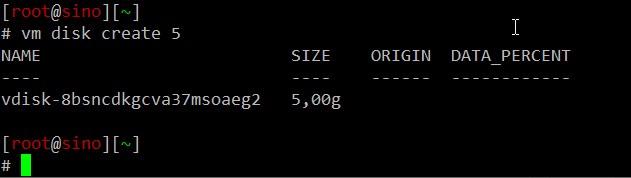
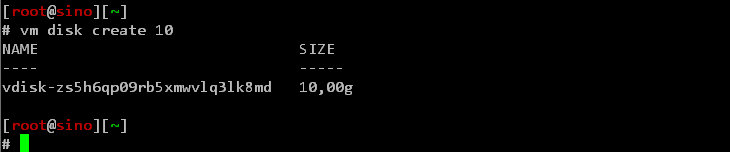
Atualização do site com novas imagens  e do sistema sino.

diff --git a/docs/sino.md b/docs/sino.md
@@ -37,9 +37,9 @@ Quanto as VMs, todos os dados devem ser armazenados em volumes nos discos locais
 Segue o link para downloads das *ISOs* e seus respectivos *checksum*. Todos os arquivos estão em uma única pasta:
 
 Arquivos: [pasta](https://www.dropbox.com/sh/9hip5a385kqctar/AAAi8raYbK24QyQPASG47vtta?dl=0){:target="_blank"}   
-Última versão: sino-20210930.iso  
+Última versão: sino-20211029.iso  
 Changelog: [arquivo](http://ernandes.info/sino/ChangeLog.txt){:target="_blank"}    
-Última alteração: 30/09/2021  
+Última alteração: 29/10/2021  
 &nbsp;
 
 ## Gravar image ISO:
@@ -72,7 +72,7 @@ Recomendo em ambiente de produção, utilizar a opção **"SINO on ram"**, pois 
 ## Acesso:
 
 Por padrão, o acesso é feito através do usuário *root* e senha *root*.  
-Ainda é possível realizar acesso remoto via *ssh*.  
+Uma dica, é realizar acesso remoto via *ssh*.  
 &nbsp;
 
 ## Rede:
@@ -111,7 +111,7 @@ lvcreate -n srv -L 20G lvg
 
 Devemos formatar o volume *srv* com *ext4*:  
 ```
-mkfs.ext4 /dev/lvg/srv
+mkfs.ext4 -L SRV /dev/lvg/srv
 ```
 
 Com a configuração de armazenamento pronta, vamos iniciar o script de disco que carrega o volume *srv* para a pasta "/srv":  
@@ -131,7 +131,7 @@ lvcreate -n swap -L 4G lvg
 
 Vamos formatar o volume *swap*:
 ```
-mkswap -L swap /dev/lvg/swap
+mkswap -L SWAP /dev/lvg/swap
 ```
 
 Agora, ativar o volume:
@@ -175,7 +175,7 @@ Usage: vm [opções..]
   set <name> --vnc <yes,no>         - disponibilizar conexão VNC em uma VM.
   start <name>                      - inicializar a VM.
   stop <name>                       - finalizar a VM.
-  stop <name> --force               - finalizar de maneira forçada a VM.
+  stop <name> --force               - finalizar de maneira interrupta a VM.
   monitor <name>                    - conectar a console do QEMU para interagir com a VM.
   top                               - monitor de consumo das VMs.
 ```
@@ -183,10 +183,10 @@ Usage: vm [opções..]
 
 ## Criando sua primeira VM:
 
-Com mão na massa vamos criar a primeira VM. Como exemplo, ela vai se chamar 'teste'.  
-Mas antes, vamos criar um disco para ela, um volume LVM com tamanho de 5GB:
+Com mão na massa vamos criar a primeira VM. Como exemplo, ela vai se chamar 'vm1'.  
+Mas antes, vamos criar um disco para ela, um volume LVM com tamanho de 10GB:
 ```
-vm disk create 5
+vm disk create 10
 ```
 Temos a saída abaixo:  
 ![Disk](/sino/vm_disk_create.png "Sino disk create.")  
@@ -194,31 +194,31 @@ Temos a saída abaixo:
 
 Agora, vamos criar a VM:
 ```
-vm create teste
+vm create vm1
 ```
 Saída:  
 ![Create](/sino/vm_create.png "Sino create.")  
 &nbsp;
 
-Um arquivo com nomenclatura "teste.vm" é criado na pasta */srv*.  
+Um arquivo com nomenclatura "vm1.vm" é criado na pasta */srv*.  
 Vamos ver os detalhes da VM:
 ```
-vm show teste
+vm show vm1
 ```
 ![Show](/sino/vm_show.png "Sino show.")  
 &nbsp;
 
 Vamos ajustar a VM com alguns parâmetros, como sistema operacional, quantidade de cpu e memória, disco e image ISO de boot. 
 ```
-vm set teste --os linux --cpu 2 --ram 1024
-vm set teste --disk0 vdisk-8bsncdkgcva37msoaeg2
-vm set teste --iso /srv/firmware-10.9.0-amd64-netinst.iso
+vm set vm1 --os linux --cpu 2 --ram 2048
+vm set vm1 --disk0 vdisk-zs5h6qp09rb5xmwvlq3lk8md
+vm set vm1 --iso /srv/AlmaLinux-8.4-x86_64-boot.iso
 ```
 ![Show](/sino/vm_show_configurado.png "Sino show after.")  
 
 Agora, só iniciar a VM:
 ```
-vm start teste
+vm start vm1
 ```
 ![Start](/sino/vm_start.png "Sino start.")    
 
@@ -232,11 +232,13 @@ Com um cliente VNC, você pode se conectar remotamente a VM:
 ```
 vnc <ip_sino>:<vnc_port>
 ```
+![Vnc](/sino/vm_vnc.png "Sino vnc.")  
 
 Para desligar a VM:
 ```
-vm stop teste
+vm stop vm1
 ```
+![Stop](/sino/vm_stop.png "Sino stop.")    
 
 Assim temos nossa primeira VM criada!   
 Uma coisa a ressaltar, em VMs Windows, fica sugestivo a instalação do agente QEMU através do pacote  **virtio-win**. 
@@ -259,6 +261,6 @@ Para LVM:
 &nbsp;
 
 * * *
-<font size="2">2019 - 2020 - S I N O.  </font>  
+<font size="2">2019 - 2021 - S I N O.  </font>  
 <font size="2">| Linux® is a registered trademark of Linus Torvalds.</font>  
 <font size="2">| Windows® is a trademark of Microsoft Corporation.</font>
